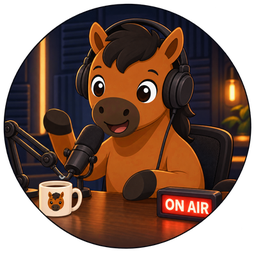
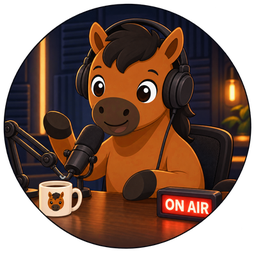
Refine Eddy speaking animation timing and expression [fast-deploy] [speaking-release]

diff --git a/speaking-system.html b/speaking-system.html
@@ -57,7 +57,7 @@
         </div>
 
         <button class="header-mascot" type="button" data-eddy-speaking-toggle aria-label="暫停 Eddy 說話動畫">
-          <img src="speaking-eddy/eddy-speaking.gif?v=20261022-1" alt="Eddy 在播客錄音室對着麥克風說話，咖啡冒出輕煙">
+          <img src="speaking-eddy/eddy-speaking.gif?v=20261022-2" alt="Eddy 在播客錄音室對着麥克風說話，咖啡冒出輕煙">
         </button>
 
         <div class="header-actions edmund-system-header__actions" data-auth-actions hidden>
@@ -158,7 +158,7 @@
   <script src="dse-speaking-source.js?v=20260911-2024a"></script>
   <script src="speaking-system.js?v=20261021-ielts-types1"></script>
   <script src="speaking-performance-indicator.js?v=20260916-study2"></script>
-  <script src="speaking-eddy-toggle.js?v=20261022-1" defer></script>
+  <script src="speaking-eddy-toggle.js?v=20261022-2" defer></script>
 <script type="module" src="speaking-transcription-controls.mjs?v=20260908-refine7"></script>
 </body>
 </html>

diff --git a/speaking-eddy-toggle.js b/speaking-eddy-toggle.js
@@ -2,9 +2,9 @@
   const button = document.querySelector('[data-eddy-speaking-toggle]');
   if (!button) return;
   const image = button.querySelector('img');
-  const gif = 'speaking-eddy/eddy-speaking.gif?v=20261022-1';
+  const gif = 'speaking-eddy/eddy-speaking.gif?v=20261022-2';
   const stills = Array.from({ length: 7 }, (_, index) =>
-    `speaking-eddy/stills/eddy-${String(index + 1).padStart(2, '0')}.png?v=20261022-1`
+    `speaking-eddy/stills/eddy-${String(index + 1).padStart(2, '0')}.png?v=20261022-2`
   );
   const key = 'edmund-speaking-eddy-playing';
   let playing = !window.matchMedia('(prefers-reduced-motion: reduce)').matches;

diff --git a/tools/mascot-art/speaking/build_eddy_speaking.py b/tools/mascot-art/speaking/build_eddy_speaking.py
@@ -16,8 +16,8 @@ PUBLIC = ROOT / "speaking-eddy"
 STILLS = PUBLIC / "stills"
 WORK = 400
 DELIVERY = 160
-FRAMES = 120
-FRAME_MS = 35
+FRAMES = 160
+FRAME_MS = 40
 
 
 def key(name: str) -> Image.Image:
@@ -66,18 +66,45 @@ def local_motion(image: Image.Image, box: tuple[int, int, int, int],
     return Image.fromarray(np.uint8(np.clip(result, 0, 255)), "RGBA")
 
 
+def local_rotation(image: Image.Image, box: tuple[int, int, int, int],
+                   pivot: tuple[float, float], radius: tuple[float, float],
+                   angle: float) -> Image.Image:
+    """Rotate the raised forearm around its elbow, feathering into the fixed body."""
+    left, top, right, bottom = box
+    source = np.asarray(image, dtype=np.float32)
+    yy, xx = np.mgrid[top:bottom, left:right].astype(np.float32)
+    px, py = pivot
+    rx, ry = radius
+    weight = np.exp(-(((xx - 82) / rx) ** 4 + ((yy - 202) / ry) ** 4))
+    turn = angle * weight
+    cosine, sine = np.cos(turn), np.sin(turn)
+    sx = np.clip(px + (xx - px) * cosine + (yy - py) * sine, 0, WORK - 2)
+    sy = np.clip(py - (xx - px) * sine + (yy - py) * cosine, 0, WORK - 2)
+    x0, y0 = np.floor(sx).astype(np.int32), np.floor(sy).astype(np.int32)
+    fx, fy = (sx - x0)[..., None], (sy - y0)[..., None]
+    sample = (source[y0, x0] * (1 - fx) * (1 - fy)
+              + source[y0, x0 + 1] * fx * (1 - fy)
+              + source[y0 + 1, x0] * (1 - fx) * fy
+              + source[y0 + 1, x0 + 1] * fx * fy)
+    result = source.copy()
+    result[top:bottom, left:right] = sample
+    return Image.fromarray(np.uint8(np.clip(result, 0, 255)), "RGBA")
+
+
+def eased(start: int, end: int, frame: int) -> float:
+    progress = max(0.0, min(1.0, (frame - start) / (end - start)))
+    return progress * progress * (3 - 2 * progress)
+
+
 def laugh_amount(frame: int) -> float:
-    if not 87 <= frame <= 110:
-        return 0.0
-    phase = (frame - 87) / 23
-    return math.sin(math.pi * phase) ** 0.55
+    return eased(103, 118, frame) * (1 - eased(135, 150, frame))
 
 
 def blink_amount(frame: int) -> float:
-    for middle in (26, 70):
+    for middle in (37, 92, 154):
         offset = abs(frame - middle)
-        if offset <= 3:
-            return (1.0, 0.88, 0.48, 0.16)[offset]
+        if offset <= 4:
+            return (1.0, 0.88, 0.62, 0.32, 0.08)[offset]
     return 0.0
 
 
@@ -101,30 +128,34 @@ def steam_layer(frame: int) -> Image.Image:
 
 def render(base: Image.Image, open_key: Image.Image, blink_key: Image.Image,
            laugh_key: Image.Image, mouth: Image.Image, eyes: Image.Image,
-           face: Image.Image, frame: int) -> Image.Image:
+           frame: int) -> Image.Image:
     image = base.copy()
     laugh = laugh_amount(frame)
-    # Three spoken phrases with small pauses before a brief spontaneous laugh.
-    syllable = max(0.0, math.sin(2 * math.pi * frame / 11))
-    speaking = (0.18 + 0.82 * syllable) if frame < 87 or frame > 111 else 0.25
-    if frame % 30 in (0, 1, 2, 27, 28, 29):
-        speaking *= 0.12
-    image = blend_local(open_key, image, mouth, speaking * (1 - laugh))
+    # A calm speaking rhythm: short phrases, closed-mouth pauses, and no chatter
+    # underneath the laugh. The circle and studio remain locked in position.
+    cadence = max(0.0, math.sin(2 * math.pi * (frame - 4) / 32))
+    phrase = (eased(5, 13, frame) * (1 - eased(47, 54, frame))
+              + eased(62, 70, frame) * (1 - eased(98, 105, frame)))
+    speaking = min(1.0, phrase) * (0.12 + 0.76 * cadence) * (1 - laugh)
+    image = blend_local(open_key, image, mouth, speaking)
+    # The laugh changes the mouth and cheeks only. Eddy keeps the same eyes,
+    # avoiding the unrelated, asymmetric laughing-eye key drawing.
+    image = blend_local(laugh_key, image, mouth, laugh)
     image = blend_local(blink_key, image, eyes, blink_amount(frame) * (1 - laugh))
-    image = blend_local(laugh_key, image, face, laugh)
 
-    # Eddy nods twice during laughter; the room, mic, cup and sign do not move.
-    if laugh:
-        nod_phase = (frame - 87) / 23
-        dy = 6.0 * laugh * math.sin(4 * math.pi * nod_phase)
+    # A single shallow nod near the middle of the laugh, rather than two bobs.
+    nod = eased(119, 126, frame) * (1 - eased(131, 139, frame))
+    if nod:
         image = local_motion(image, (108, 42, 316, 238), (208, 142),
-                             (73, 80), 0.6 * dy, dy)
+                             (73, 80), 0.0, 2.0 * nod)
 
-    # A gentle conversational hoof gesture throughout the loop.
-    dy_hoof = -9.0 * math.sin(2 * math.pi * (2 * frame / FRAMES + 0.06))
-    dy_hoof -= 2.0 * laugh
-    image = local_motion(image, (54, 163, 142, 267), (92, 198),
-                         (20, 33), 1.3 * math.sin(2 * math.pi * frame / FRAMES), dy_hoof)
+    # Two conversational gestures pivot at the elbow and settle between ideas.
+    gesture = (eased(15, 28, frame) * (1 - eased(42, 57, frame))
+               + eased(72, 84, frame) * (1 - eased(97, 108, frame)))
+    angle = -0.075 * min(1.0, gesture) - 0.025 * laugh
+    if angle:
+        image = local_rotation(image, (54, 160, 124, 258),
+                               (111, 247), (35, 45), angle)
     image.alpha_composite(steam_layer(frame))
     return image
 
@@ -147,14 +178,13 @@ def main() -> None:
     base, opened, blink, laugh = (key(name) for name in ("closed", "open", "blink", "laugh"))
     mouth = oval_mask(((158, 175, 221, 220),), 3)
     eyes = oval_mask(((140, 114, 171, 158), (213, 113, 247, 158)), 3)
-    face = oval_mask(((137, 110, 249, 220),), 7)
-    frames = [render(base, opened, blink, laugh, mouth, eyes, face, frame)
+    frames = [render(base, opened, blink, laugh, mouth, eyes, frame)
               for frame in range(FRAMES)]
-    for number, frame in enumerate((4, 26, 48, 70, 88, 99, 114), 1):
+    for number, frame in enumerate((8, 37, 58, 88, 116, 128, 152), 1):
         frames[frame].resize((256, 256), Image.Resampling.LANCZOS).save(
             STILLS / f"eddy-{number:02d}.png", optimize=True
         )
-    frames[98].resize((512, 512), Image.Resampling.LANCZOS).save(
+    frames[125].resize((512, 512), Image.Resampling.LANCZOS).save(
         PUBLIC / "eddy-speaking-poster.png", optimize=True
     )
     gif_frames = [gif_palette(frame.resize((DELIVERY, DELIVERY), Image.Resampling.LANCZOS))
